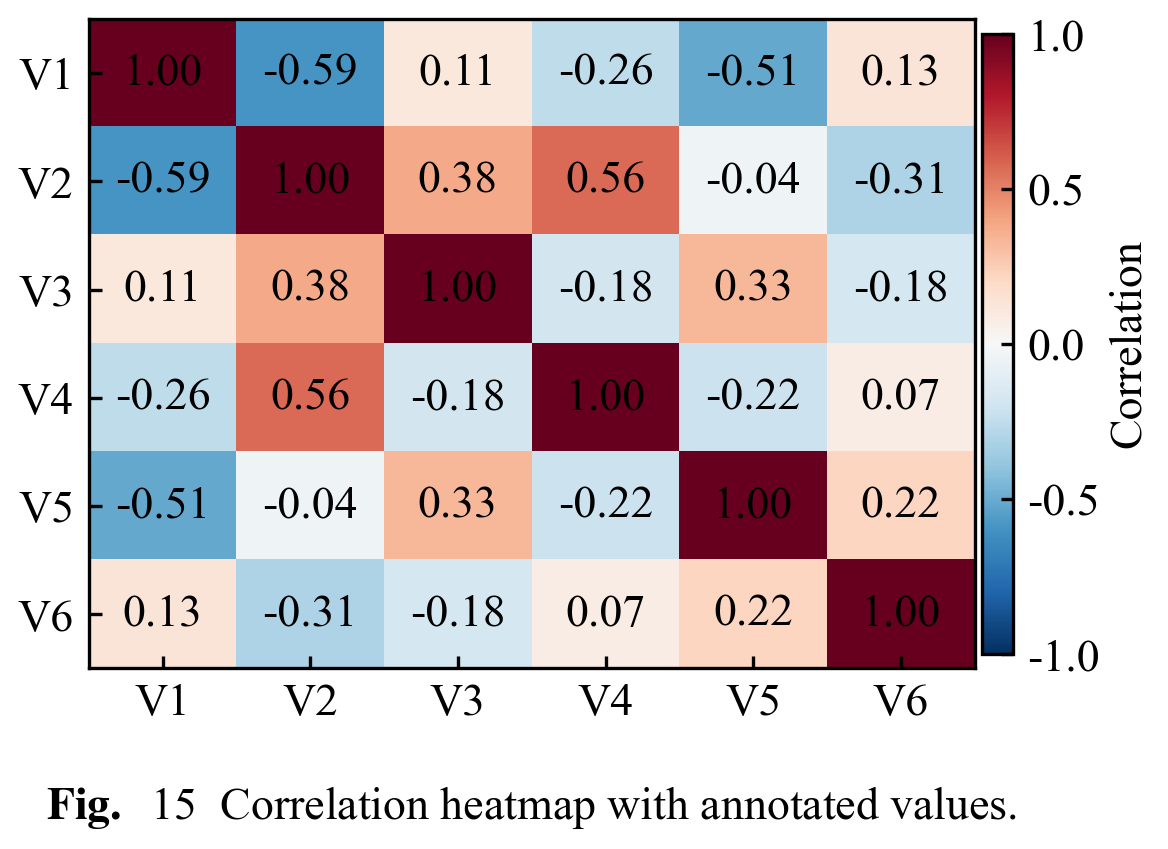
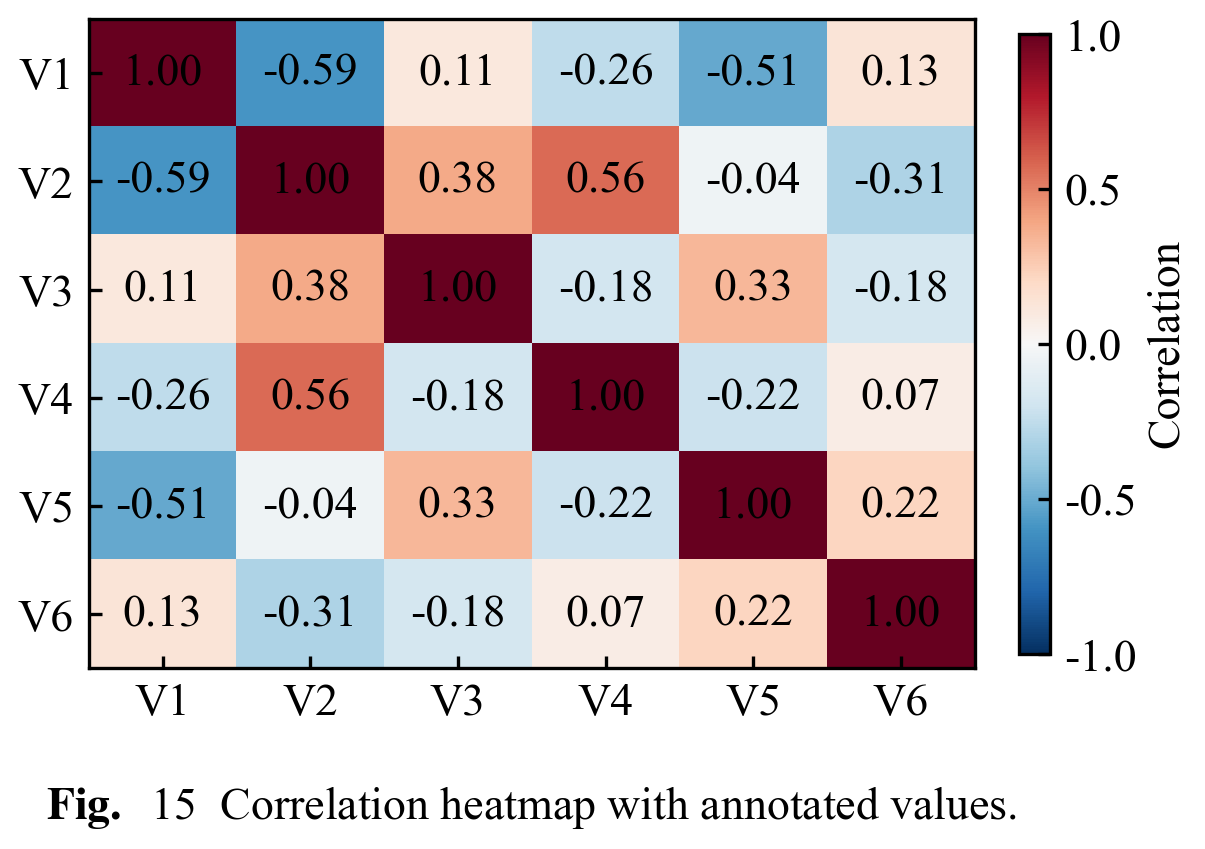
Widen the colorbar gap to 3.75 mm on the fixed single-column frame
The tucked colorbar sat 0.008 of the host width (0.6 mm) from the frame, which
read as touching on the heatmap and the filled contour. Use 0.05 of the host
width instead, giving a clear 3.75 mm separation; the bar keeps its 2.6 mm
width and the figure grows by the same amount on the right.

diff --git a/assets/wxl_style.py b/assets/wxl_style.py
@@ -1071,7 +1071,9 @@ def _standardize_axes_box(fig, w_mm: float, h_mm: float) -> int:
         if host is None or host not in targets:
             continue
         hp = host.get_position()
-        a.set_position([hp.x1 + 0.008 * hp.width, hp.y0,
+        # leave a clear gap between the frame and the bar (0.008 of the host
+        # width was visually touching); 0.05 reads as a proper separation
+        a.set_position([hp.x1 + 0.05 * hp.width, hp.y0,
                         0.035 * hp.width, hp.height])
         try:
             cb.set_label(cb.ax.get_ylabel(), labelpad=2)
